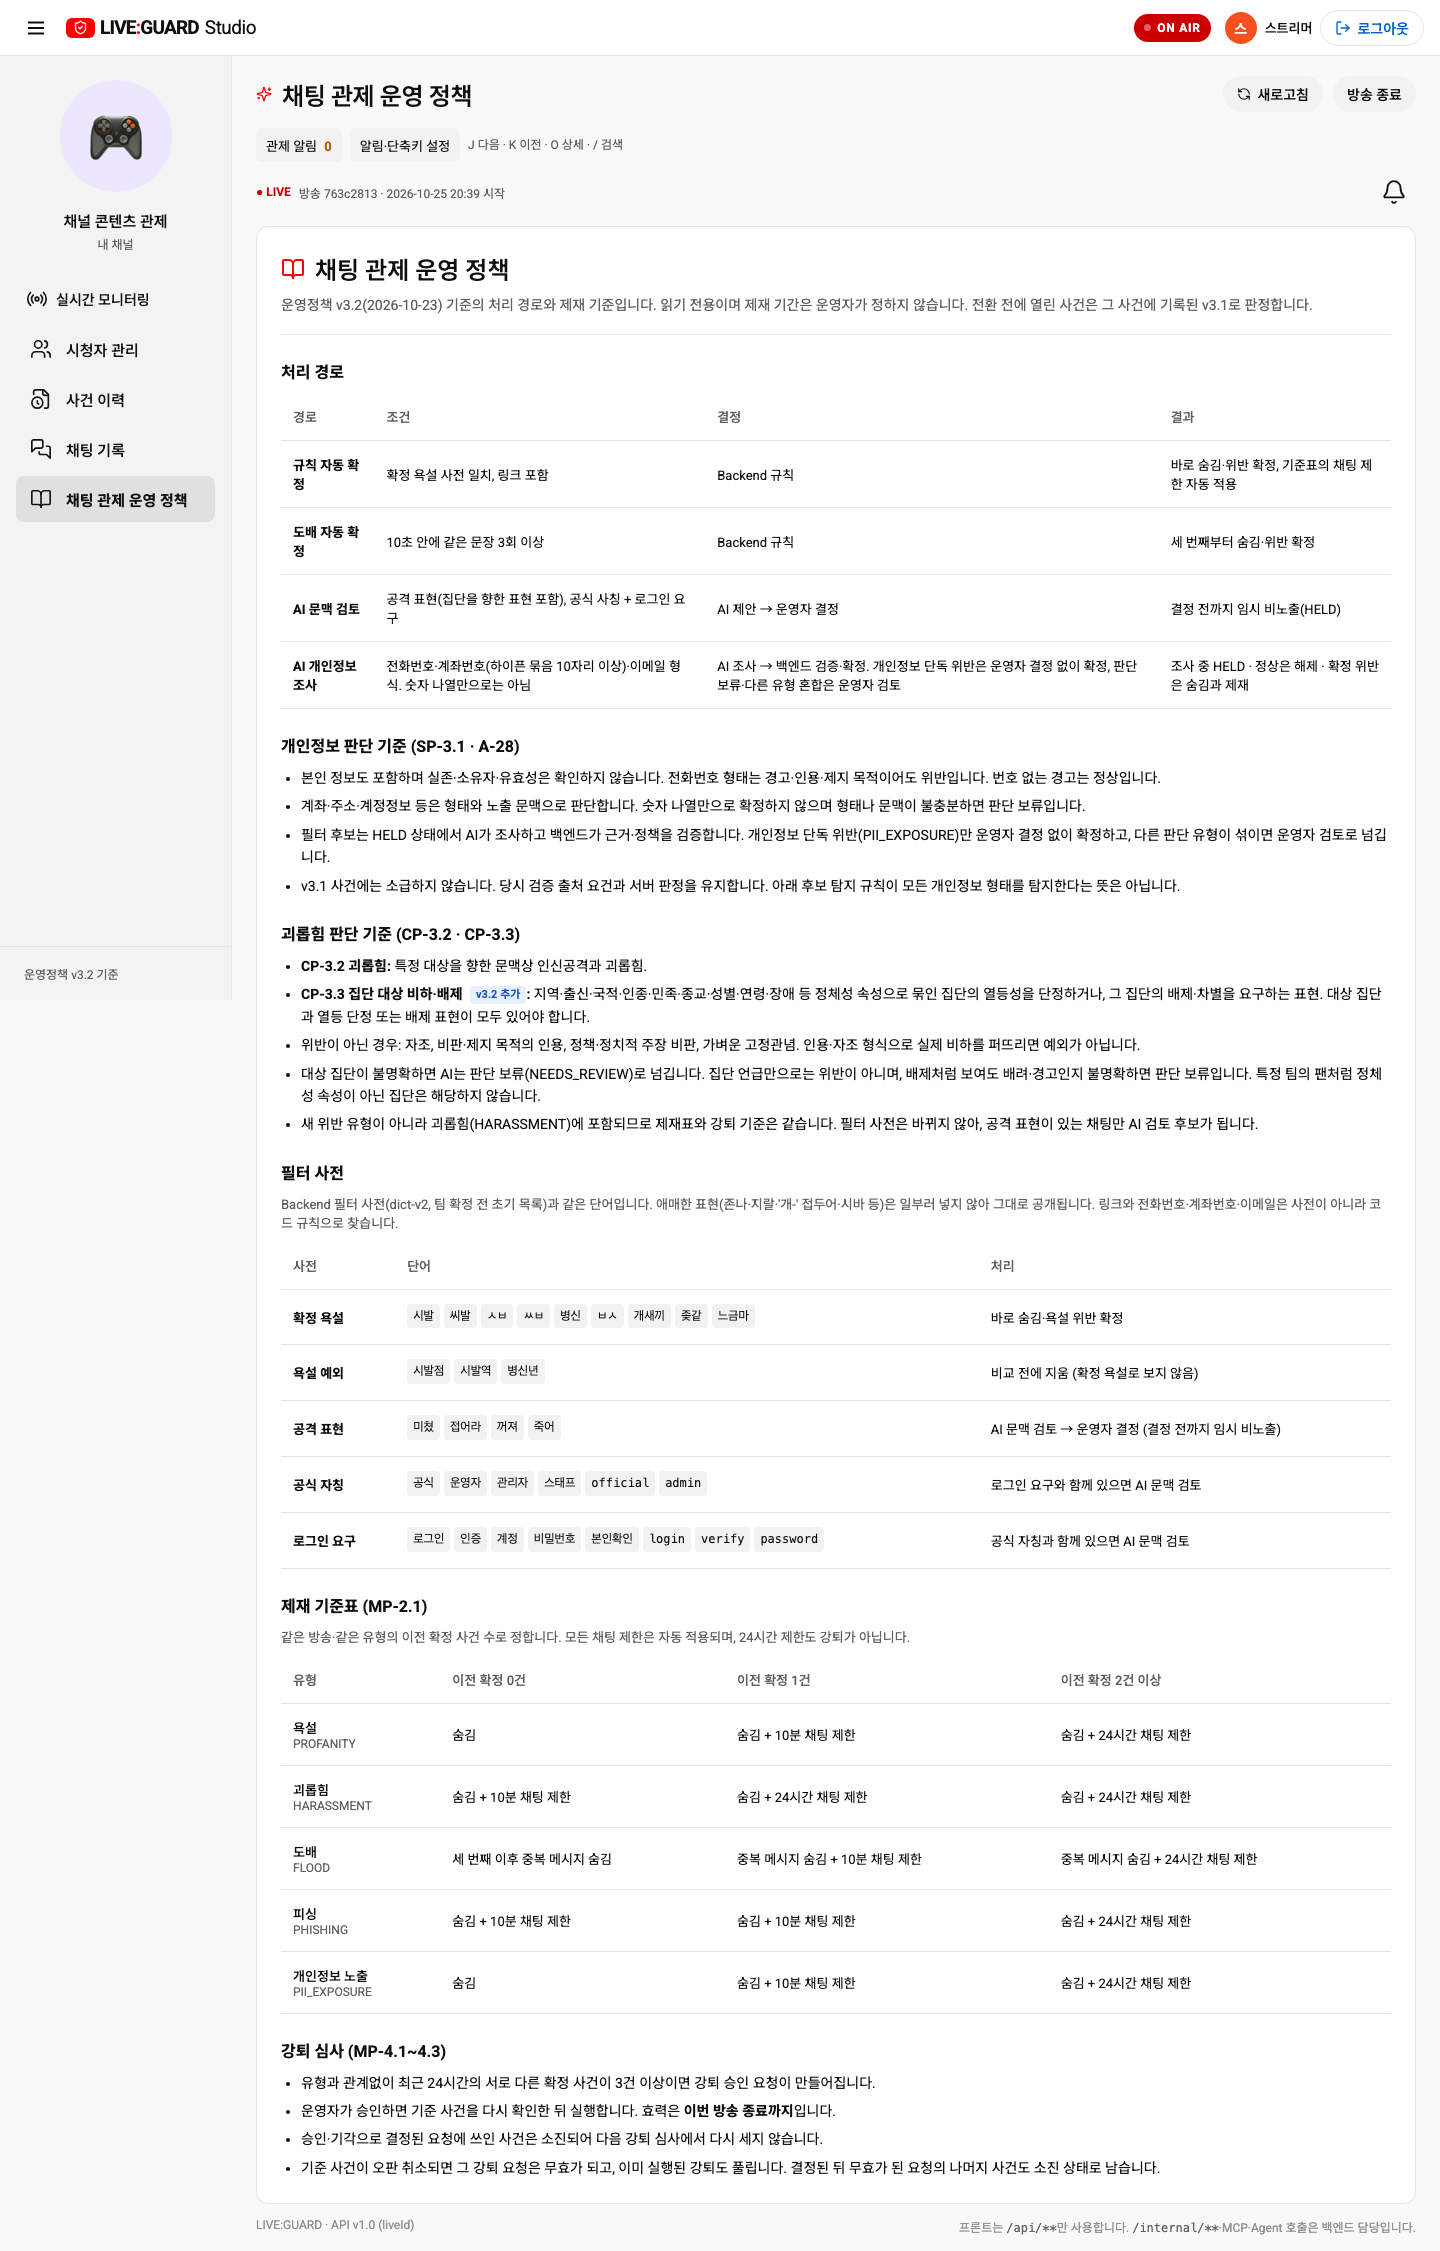
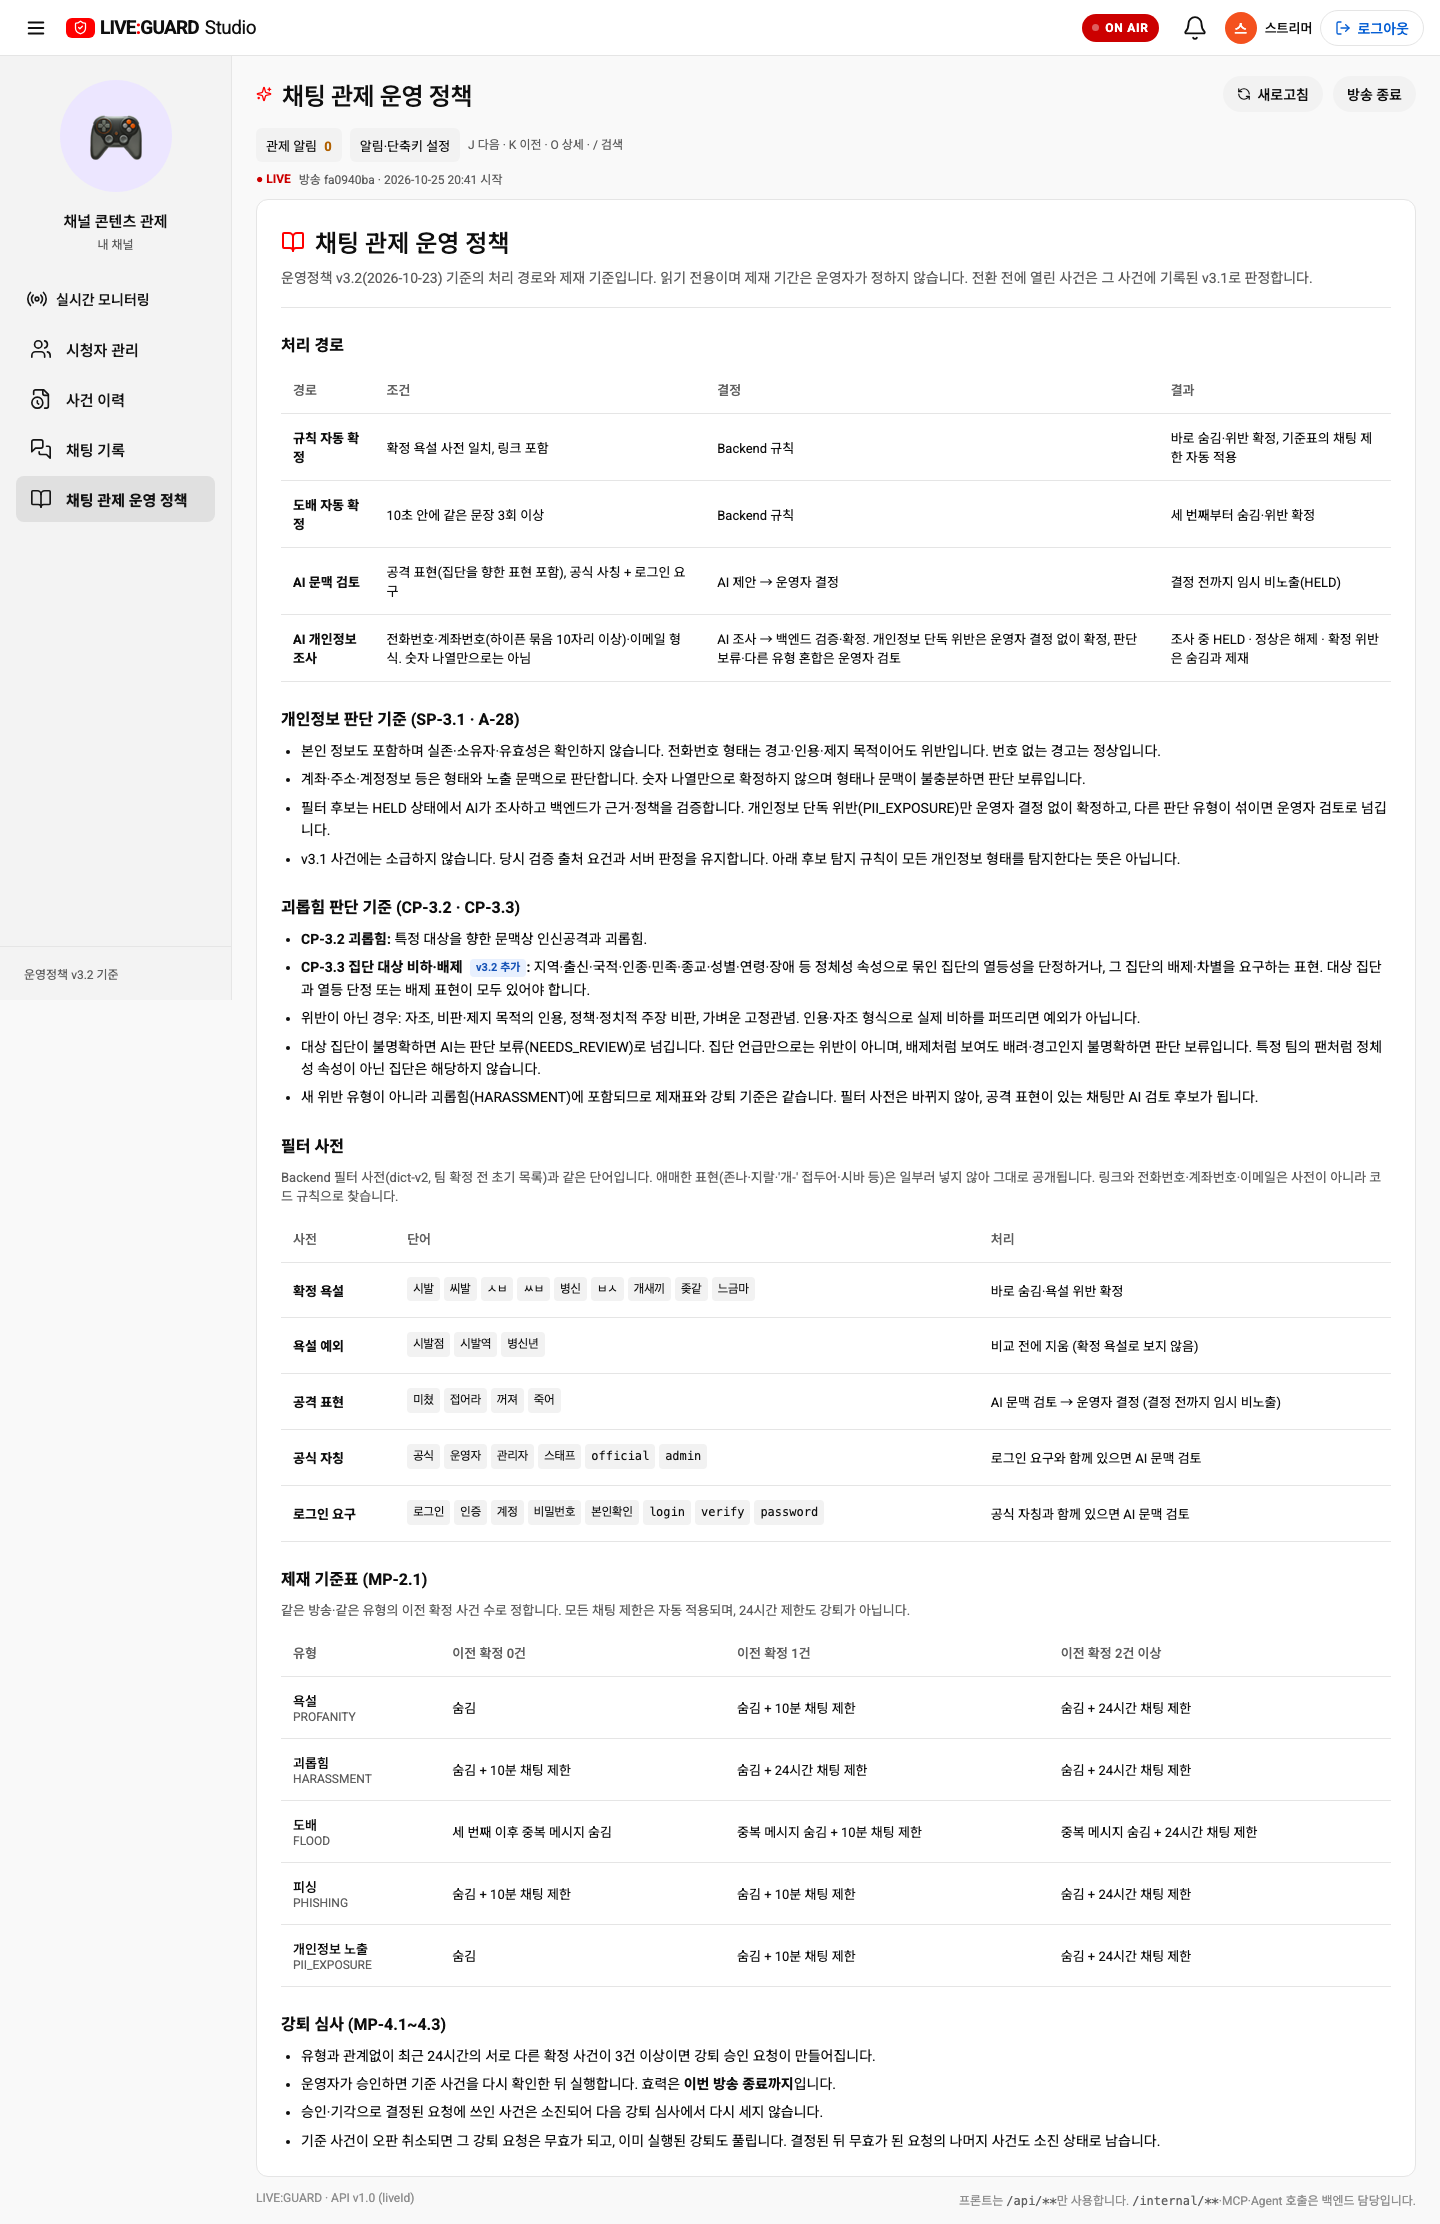
style: place notification bell before the streamer profile in the header

diff --git a/src/StudioScreen.vue b/src/StudioScreen.vue
@@ -336,7 +336,7 @@ const dictRows: { name: string; words: string[]; result: string }[] = [
 <template>
   <div class="app-shell studio-shell">
     <header class="topbar"><div class="topbar-title"><button class="yt-icon-button" :class="{on: navVisible}" :title="navVisible ? '메뉴 닫기' : '메뉴 열기'" aria-controls="operator-nav" :aria-expanded="navVisible" @click="toggleNav"><Menu :size="22"/></button><span class="yt-logo"><span class="yt-logo-mark"><ShieldCheck :size="15"/></span><b>LIVE<span>:</span>GUARD</b></span><span class="console-tag">Studio</span></div>
-      <div class="topbar-right"><ModeBadge :mock="mock" :online="online"/><span class="yt-me" :style="{background: avatarColor(nickname)}" :title="nickname">{{nickname.slice(0,1)}}</span><span class="operator-info">{{nickname}}</span><button class="header-logout" @click="emit('logout')"><LogOut :size="16"/> 로그아웃</button></div></header>
+      <div class="topbar-right"><ModeBadge :mock="mock" :online="online"/><DecisionNotifications :reviews="ended ? [] : pending" :live-id="live?.liveId??''" :ended="ended" @settings="operatorToolsRef?.openSettings()" @open="openToolAlert($event.reviewId, 'new')"/><span class="yt-me" :style="{background: avatarColor(nickname)}" :title="nickname">{{nickname.slice(0,1)}}</span><span class="operator-info">{{nickname}}</span><button class="header-logout" @click="emit('logout')"><LogOut :size="16"/> 로그아웃</button></div></header>
     <div class="app-body">
       <div v-if="!wide && navOpen" class="nav-backdrop" @click="navOpen = false"/>
       <aside id="operator-nav" class="sidebar" :class="{open: !wide && navOpen, docked: wide && !navCollapsed}" :aria-hidden="!navVisible" :inert="!navVisible">
@@ -361,7 +361,7 @@ const dictRows: { name: string; words: string[]; result: string }[] = [
 
           <section v-if="!live && !loading" class="card secondary-page studio-empty"><Radio :size="30"/><h2>진행 중인 방송이 없습니다</h2><p>방송을 시작하면 시청자 채팅과 AI 조사 결과를 확인할 수 있습니다.</p></section>
           <template v-else-if="live">
-            <div class="studio-live-line"><span :class="ended ? 'ended' : 'on'">{{ended ? '종료' : '● LIVE'}}</span> 방송 {{live.liveId.slice(0,8)}} · {{asTime(live.startedAt)}} 시작<template v-if="ended"> · 방송이 종료되어 결정할 수 없습니다</template><DecisionNotifications :reviews="ended ? [] : pending" :live-id="live.liveId" :ended="ended" @settings="operatorToolsRef?.openSettings()" @open="openToolAlert($event.reviewId, 'new')"/></div>
+            <div class="studio-live-line"><span :class="ended ? 'ended' : 'on'">{{ended ? '종료' : '● LIVE'}}</span> 방송 {{live.liveId.slice(0,8)}} · {{asTime(live.startedAt)}} 시작<template v-if="ended"> · 방송이 종료되어 결정할 수 없습니다</template></div>
 
             <p v-if="arrivalAnnouncement" class="monitor-arrival-announcement" role="status">{{arrivalAnnouncement}}</p>
             <div v-if="page==='monitor'" class="live-monitoring-grid queue-page">

diff --git a/src/style.css b/src/style.css
@@ -1169,11 +1169,11 @@ code{font-family:'Roboto Mono',ui-monospace,Consolas,monospace}
 
 /* YouTube-style decision notification bell and anchored list. */
 .studio-live-line{flex-wrap:wrap;position:relative}
-.decision-notifications{margin-left:auto;line-height:normal;color:var(--text);font-size:14px}
+.decision-notifications{margin-left:0;flex:none;line-height:normal;color:var(--text);font-size:14px}
 .decision-bell{position:relative;display:grid;place-items:center;width:44px;height:44px;border:0;border-radius:50%;background:transparent;color:#0f0f0f;cursor:pointer}
 .decision-bell:hover,.decision-bell.selected{background:#e5e5e5}
 .decision-bell-count{position:absolute;top:0;left:23px;min-width:20px;padding:1px 4px;border:2px solid #fff;border-radius:12px;background:#cc0000;color:#fff;font-size:12px;font-weight:500;line-height:16px;text-align:center}
-.decision-notification-panel{position:absolute;top:calc(100% + 6px);right:0;z-index:60;width:480px;max-width:100%;border-radius:12px;background:#fff;box-shadow:0 4px 28px #0003;overflow:hidden;color:#0f0f0f}
+.decision-notification-panel{position:absolute;top:calc(100% + 6px);right:16px;z-index:60;width:480px;max-width:calc(100vw - 32px);border-radius:12px;background:#fff;box-shadow:0 4px 28px #0003;overflow:hidden;color:#0f0f0f}
 .decision-notification-panel header{display:flex;align-items:center;justify-content:space-between;padding:12px 16px;border-bottom:1px solid #ddd}
 .decision-notification-panel header h2{margin:0;font-size:20px;font-weight:500}
 .decision-notification-panel header button{display:grid;place-items:center;width:40px;height:40px;border:0;border-radius:50%;background:transparent;cursor:pointer}
@@ -1240,3 +1240,10 @@ code{font-family:'Roboto Mono',ui-monospace,Consolas,monospace}
 /* OFF AIR shares ON AIR geometry and typography, with a gray fill. */
 .mode-badge.waiting{color:#fff;background:#707070;letter-spacing:.06em}
 .mode-badge.waiting i{background:#fff}
+
+@media(max-width:600px){
+ .studio-shell .topbar{gap:6px}
+ .studio-shell .topbar-right{gap:3px}
+ .studio-shell .topbar-right>.yt-me{display:none}
+ .studio-shell .decision-notification-panel{right:8px;width:480px;max-width:calc(100vw - 16px)}
+}

diff --git a/docs/api-console-parity.md b/docs/api-console-parity.md
@@ -6,7 +6,7 @@
 
 5173번 Vite 개발 서버는 소스 변경을 바로 반영하지만, 3000번은 Docker 안의 정적 빌드를 제공합니다. 이전 3000번 자산에는 종·통합 화면·OFF AIR 코드가 없었습니다. 프론트엔드만 `docker compose build frontend`와 `docker compose up -d --no-deps frontend`로 갱신했습니다. 빌드 소스는 `liveguard-fe`, `VITE_USE_API=true`입니다. BE·Agent·DB는 재시작하지 않았습니다.
 
-현재 3000번 자산은 `/assets/index-Dgw_XqBT.js`이며 종·통합 화면·OFF AIR 코드가 포함돼 있습니다. 향후 프론트 소스를 수정해도 Docker는 자동 갱신되지 않으므로 3000번 반영을 다시 확인해야 합니다.
+현재 3000번 자산은 `/assets/index-DE2gPomm.js`이며 종·통합 화면·OFF AIR 코드가 포함돼 있습니다. 향후 프론트 소스를 수정해도 Docker는 자동 갱신되지 않으므로 3000번 반영을 다시 확인해야 합니다.
 
 ## 실제 API 화면 체크
 
@@ -14,7 +14,7 @@
 | --- | --- |
 | 메뉴 통합 | 실시간 모니터링 한 개, 별도 결정 대기 메뉴 없음 |
 | 3열 | 방송 정보·채팅 / 문맥 검토 대기 / 강퇴 승인 대기 동시 표시 |
-| 종 알림 | 대기 0건에서도 종 표시, 클릭 시 빈 상세 목록 표시 |
+| 종 알림 | 우상단 스트리머 프로필·이름 왼쪽에 종 표시. 대기 0건에서 클릭 시 빈 상세 목록 표시 |
 | 알림 설정 | 톱니바퀴로 기존 알림·단축키 설정 열림 |
 | 정책 문구 | ‘채팅 관제 운영 정책’, v3.2 SP-3.1·A-28 및 CP-3.3 안내 표시 |
 | OFF AIR | 현재 실시간 연결 시 ON AIR. 검사 브라우저만 SSE를 차단해 회색 OFF AIR 표시 확인 |

diff --git a/docs/notification-bell.md b/docs/notification-bell.md
@@ -1,6 +1,6 @@
 # 스트리머 결정 대기 종 알림
 
-기존 방송 상태 줄의 노란 ‘결정 대기 N건 →’ 버튼은 바로 검토 페이지로 이동해 어떤 요청인지 먼저 확인하기 어려웠습니다. 사용자 제공 YouTube 알림 화면을 참고해 방송 상태 줄 오른쪽에 종 아이콘을 두고, 클릭하면 상세 목록을 먼저 보여 주도록 바꿨습니다.
+기존 방송 상태 줄의 노란 ‘결정 대기 N건 →’ 버튼은 바로 검토 페이지로 이동해 어떤 요청인지 먼저 확인하기 어려웠습니다. 사용자 제공 YouTube 알림 화면을 참고해 우상단 헤더의 스트리머 프로필·이름 왼쪽에 종 아이콘을 두고, 클릭하면 상세 목록을 먼저 보여 주도록 바꿨습니다.
 
 | 항목 | 적용 동작 |
 | --- | --- |
@@ -35,3 +35,8 @@
 </details>
 
 ![대기 없음](evidence/notification-bell/decision-bell-empty.png)
+
+
+## 최종 위치 조정
+
+종은 ON/OFF AIR 배지 다음, 스트리머 프로필·이름 왼쪽에 표시합니다. 방송 상태 줄에서는 제거했습니다. 알림 패널은 헤더 아래 우측에 열리며 방송이 없어도 종을 표시합니다. 휴대폰에서는 중복된 프로필 아바타를 숨겨 종·상태·로그아웃이 한 줄에 들어갑니다. 기존 알림 테스트 2개와 통합 화면 테스트 3개, 빌드가 통과했고 3000번 Docker를 재빌드한 실제 API 화면에서도 상세·설정·360/390px를 확인했습니다.
